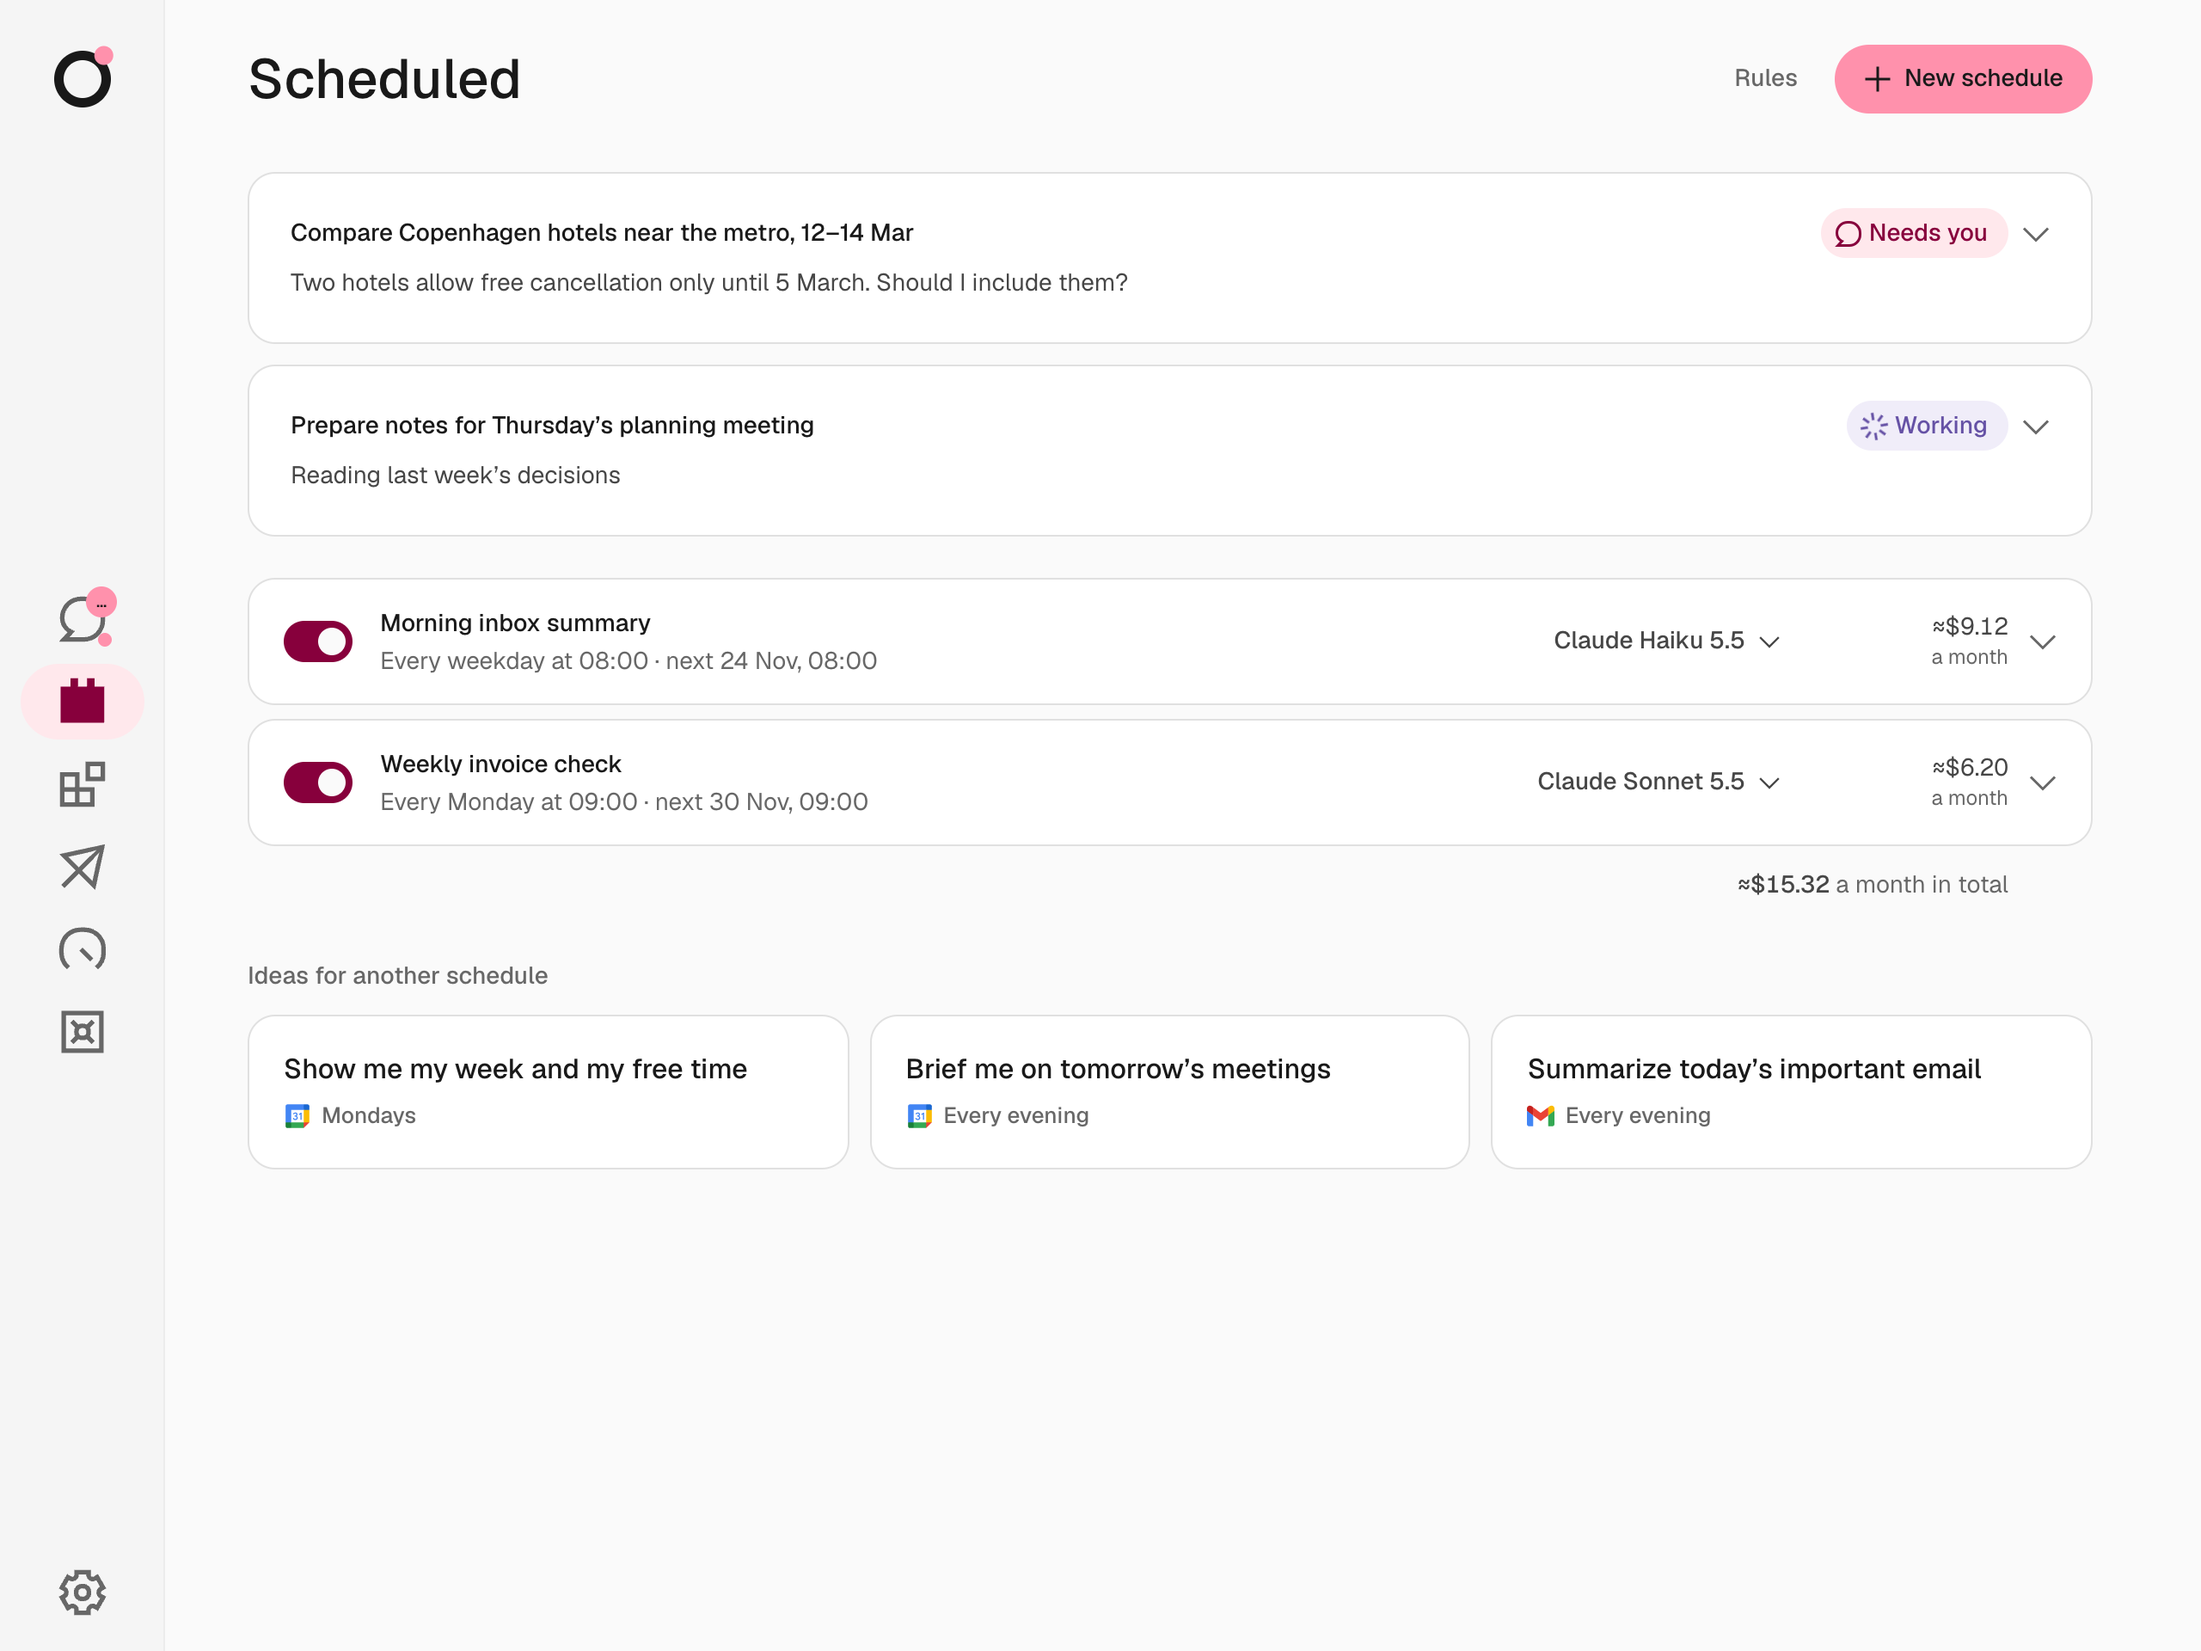
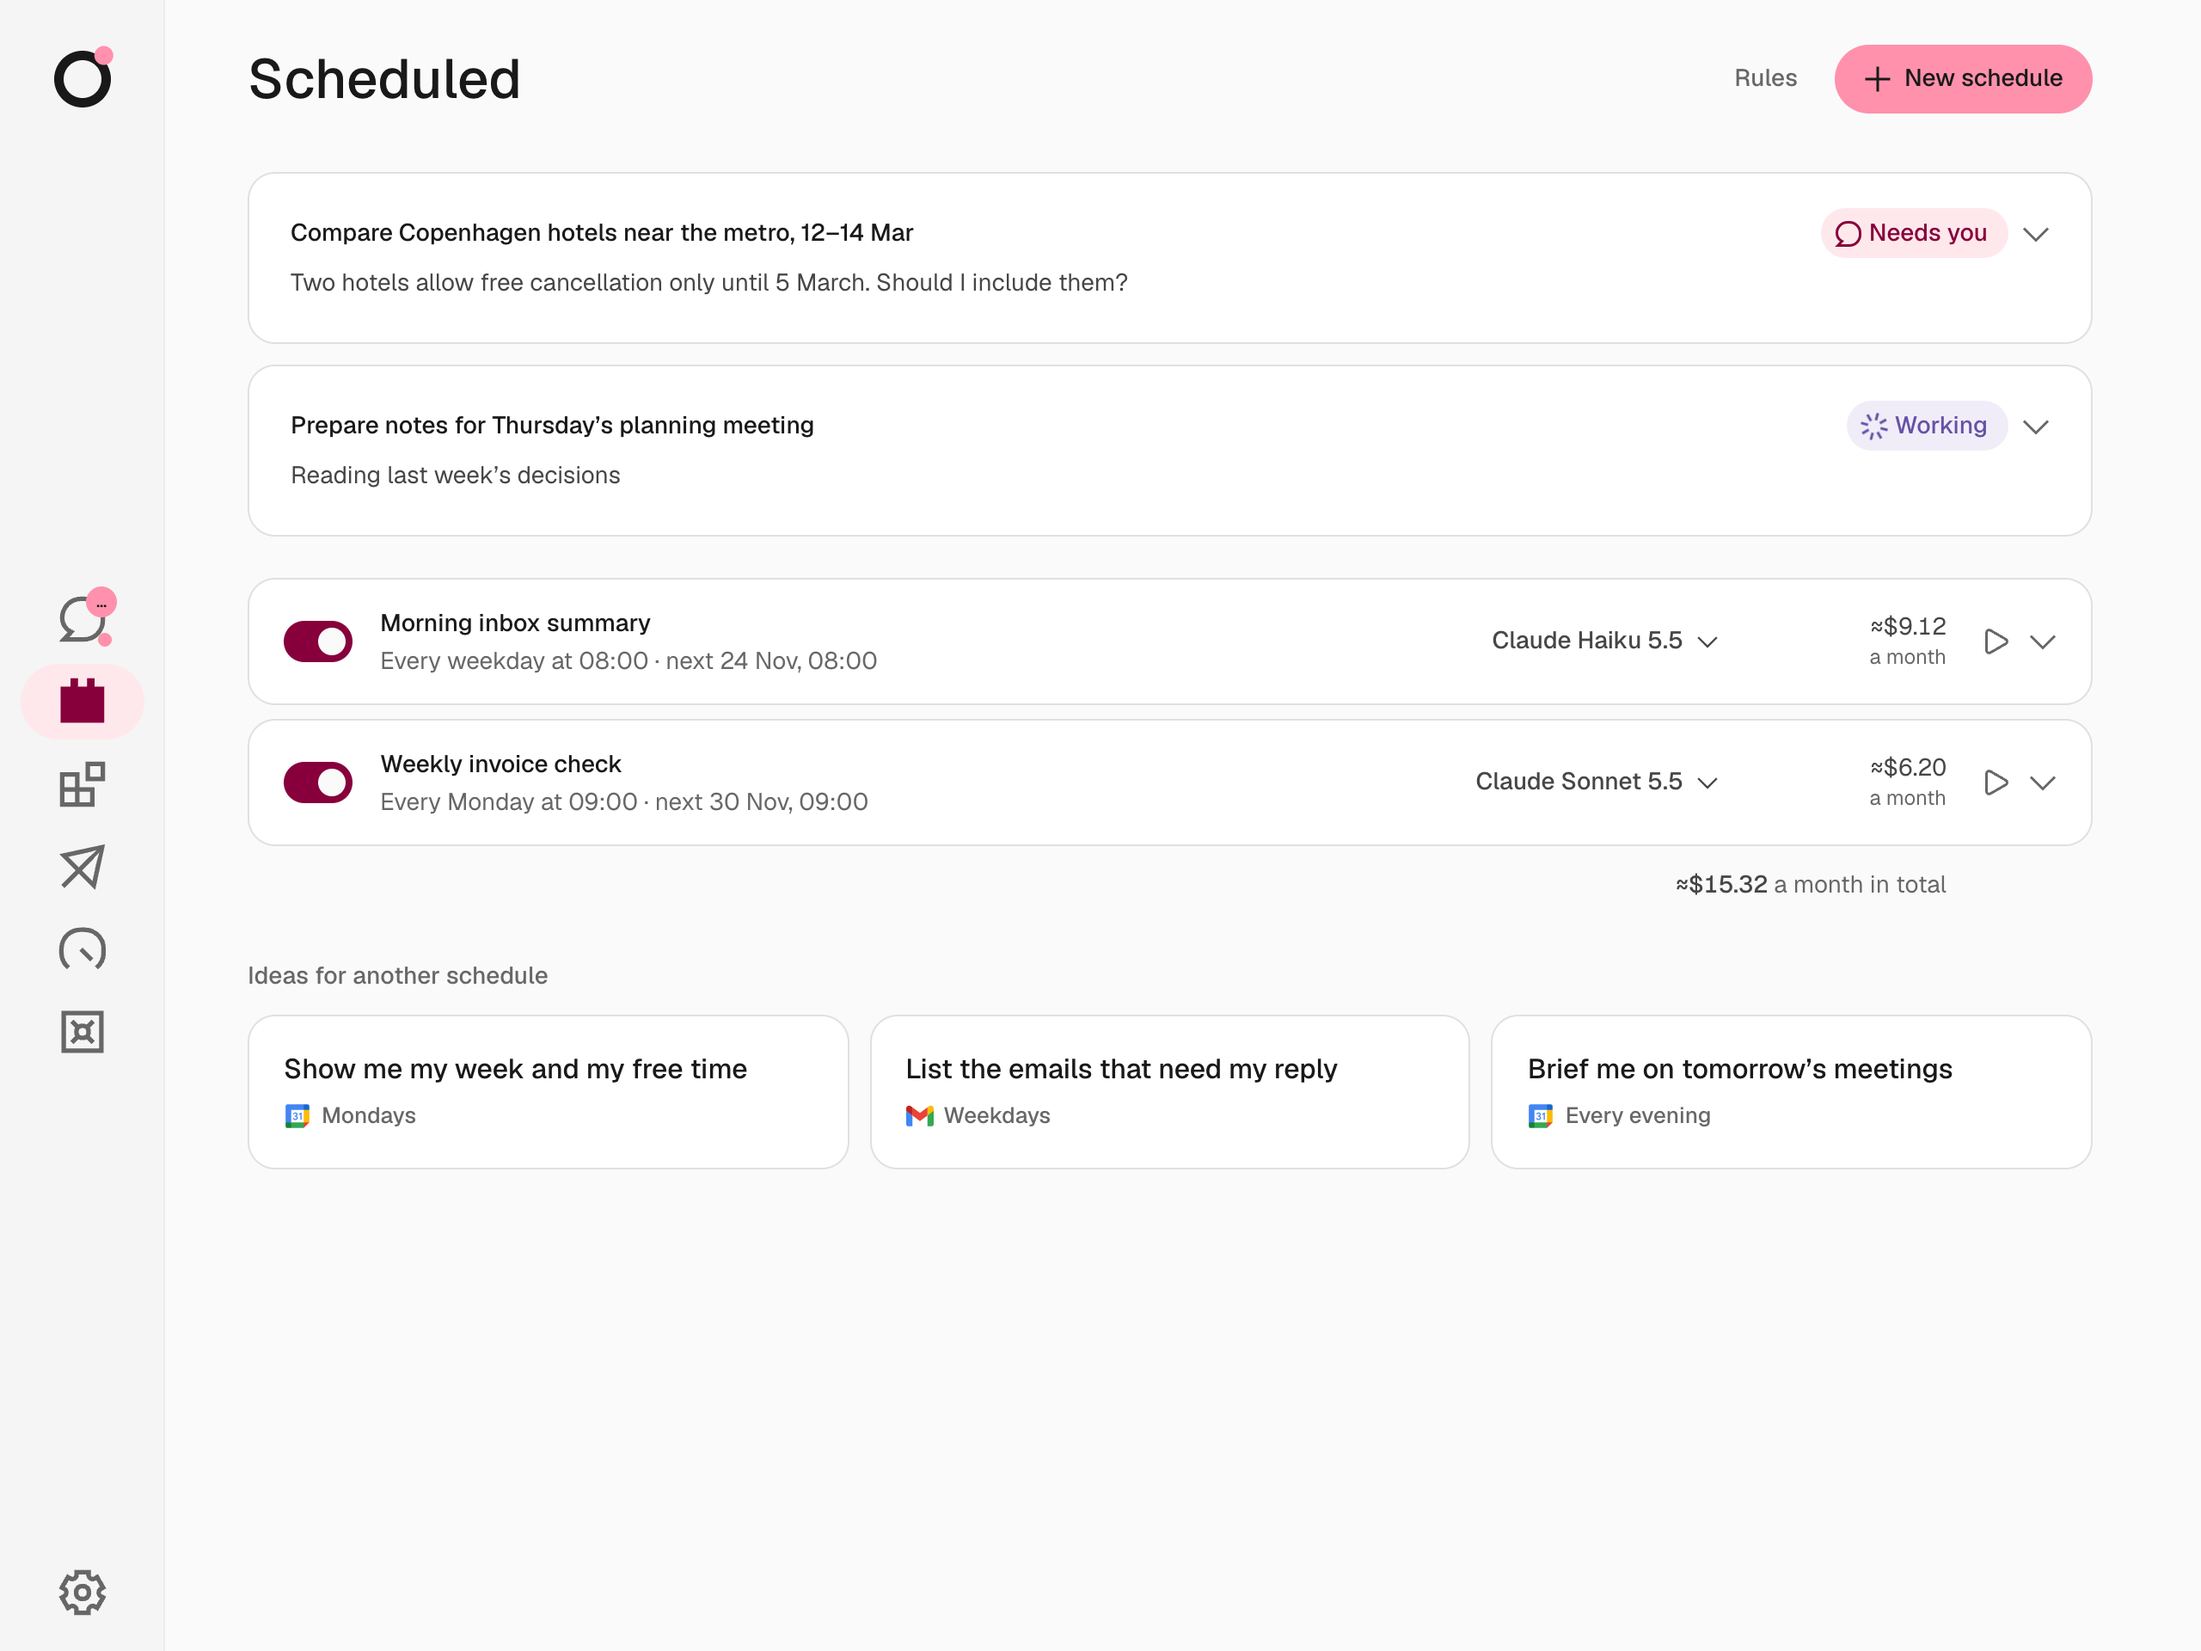
feat(schedules): keep Run now on each row and show the expected cost in details

diff --git a/src/web/pages/schedule.tsx b/src/web/pages/schedule.tsx
@@ -26,7 +26,7 @@ import {
 } from '../components/plan-controls';
 import { Button, Loading, Notice } from '../components/ui';
 import { money } from '../lib/money';
-import { ScheduleModel } from '../components/model-choices';
+import { ScheduleCost, ScheduleModel } from '../components/model-choices';
 
 export function ScheduleRow({
   schedule,
@@ -262,6 +262,33 @@ export function ScheduleRow({
             </>
           )}
         </div>
+        <Button
+          variant="ghost"
+          size="icon"
+          className="schedule-row-run"
+          disabled={
+            starting ||
+            Boolean(activeStatus && !questionMessageId) ||
+            change.busy ||
+            change.uncertain
+          }
+          aria-label={`${runLabel} for ${schedule.title}`}
+          title={runLabel}
+          aria-busy={starting}
+          aria-live="polite"
+          onClick={() => {
+            if (questionMessageId) focusQuestion();
+            else void runNow();
+          }}
+        >
+          {starting ? (
+            <LoaderCircle size={16} className="spin" aria-hidden="true" />
+          ) : activeStatus ? (
+            <StatusIcon status={activeStatus} />
+          ) : (
+            <Play size={16} aria-hidden="true" />
+          )}
+        </Button>
         <ChevronDown size={16} className="schedule-row-chevron" aria-hidden="true" />
       </div>
       {live && (
@@ -280,6 +307,7 @@ export function ScheduleRow({
         <div className="saved-plan-details-content">
           <div className="schedule-row-more">
             <p className="saved-plan-description">{schedule.prompt}</p>
+            <ScheduleCost schedule={schedule} />
             {schedule.baselineObservation?.status === 'verified' && (
               <p className="saved-plan-note">
                 Baseline: {schedule.baselineObservation.value} ·{' '}
@@ -287,32 +315,6 @@ export function ScheduleRow({
               </p>
             )}
             <div className="schedule-row-actions">
-              <Button
-                variant="outline"
-                size="sm"
-                disabled={
-                  starting ||
-                  Boolean(activeStatus && !questionMessageId) ||
-                  change.busy ||
-                  change.uncertain
-                }
-                aria-label={`${runLabel} for ${schedule.title}`}
-                aria-busy={starting}
-                aria-live="polite"
-                onClick={() => {
-                  if (questionMessageId) focusQuestion();
-                  else void runNow();
-                }}
-              >
-                {starting ? (
-                  <LoaderCircle size={16} className="spin" aria-hidden="true" />
-                ) : activeStatus ? (
-                  <StatusIcon status={activeStatus} />
-                ) : (
-                  <Play size={16} aria-hidden="true" />
-                )}
-                {runLabel}
-              </Button>
               {activeRun && (
                 <Button
                   variant="outline"

diff --git a/src/web/pages/tasks.css b/src/web/pages/tasks.css
@@ -66,7 +66,7 @@
 }
 .schedule-row-main {
   display: grid;
-  grid-template-columns: minmax(44px, auto) minmax(160px, 1fr) fit-content(220px) 104px 16px;
+  grid-template-columns: minmax(44px, auto) minmax(160px, 1fr) fit-content(220px) 104px auto 16px;
   align-items: center;
   gap: 12px;
   min-height: 72px;
@@ -151,6 +151,10 @@
   color: var(--muted-foreground);
   font-size: 12px;
 }
+.schedule-row-run {
+  margin-right: -8px;
+  color: var(--muted-foreground);
+}
 .schedule-row-chevron {
   color: var(--muted-foreground);
   transition: transform 220ms var(--ease-reveal);
@@ -183,7 +187,7 @@
   margin-left: auto;
 }
 .schedule-total {
-  padding: 4px 49px 0 0;
+  padding: 4px 85px 0 0;
   color: var(--muted-foreground);
   font-size: var(--text-control);
   text-align: right;
@@ -215,10 +219,10 @@
 }
 @container (max-width: 640px) {
   .schedule-row-main {
-    grid-template-columns: minmax(0, 1fr) auto;
+    grid-template-columns: minmax(0, 1fr) auto auto;
     grid-template-areas:
-      'name switch'
-      'model price';
+      'name name switch'
+      'model price run';
     gap: 6px 8px;
     min-height: 0;
     padding: 14px 12px 12px 16px;
@@ -236,6 +240,11 @@
   .schedule-row-price {
     grid-area: price;
   }
+  .schedule-row-run {
+    grid-area: run;
+    justify-self: end;
+    margin-right: 0;
+  }
   .schedule-row-chevron {
     display: none;
   }
@@ -247,7 +256,7 @@
     padding: 0 16px 16px;
   }
   .schedule-total {
-    padding-right: 13px;
+    padding-right: 53px;
   }
 }
 @media (prefers-reduced-motion: reduce) {

diff --git a/src/web/components/model-choices.tsx b/src/web/components/model-choices.tsx
@@ -301,6 +301,33 @@ export function WorkModel({ task }: { task: Task }) {
   );
 }
 
+export function ScheduleCost({ schedule }: { schedule: Schedule }) {
+  const models = useModels();
+  const usage = usePageData<WorkUsageResponse>(workUsagePath);
+  const data = models.data;
+  const current = data && routeModel(data, 'schedule', { schedule: schedule.model });
+  const name = data && current ? modelOf(data, current.selection)?.name : undefined;
+  const spent = usage.data?.schedules[schedule.id];
+  const recent = spent ? spent.agentUsd + spent.otherUsd : 0;
+  if (schedule.kind !== 'recurring' && recent <= 0) return null;
+  return (
+    <div className="work-model">
+      <span className="work-model-label">Expected cost</span>
+      <span className="work-model-value">
+        {schedule.monthlyUsd !== null ? (
+          <>
+            <strong>≈{money(schedule.monthlyUsd)} a month</strong>
+            {name && ` on ${name}`}
+          </>
+        ) : (
+          <strong>No estimate yet</strong>
+        )}
+        {recent > 0 && ` · ${money(recent)} in the last 30 days`}
+      </span>
+    </div>
+  );
+}
+
 export function ScheduleModel({ schedule }: { schedule: Schedule }) {
   const models = useModels();
   const usage = usePageData<WorkUsageResponse>(workUsagePath);

diff --git a/docs/src/content/docs/use/schedules.md b/docs/src/content/docs/use/schedules.md
@@ -28,8 +28,8 @@ When you have fewer than three active schedules, **Scheduled** also shows three 
 
 - Use the switch to pause or resume it.
 - Select its model to give this schedule a different one. See [Choose a model for a schedule](#choose-a-model-for-a-schedule).
-- Select its name to read the instruction, any saved baseline, and that schedule's runs. When you have only one schedule, or only one active schedule, it's already open when you open the page.
-- Select **Run now** to start one run and follow it in its runs.
+- Select its name to read the instruction, its expected cost, any saved baseline, and that schedule's runs. When you have only one schedule, or only one active schedule, it's already open when you open the page.
+- Select **Run now**, the play button on its row, to start one run. The row opens so you can follow it.
 - Select **Edit schedule** to change its name, instructions or timing.
 - Select **Ask Nod** to change it in your own words.
 - Select **Delete schedule**. Future runs stop, and past activity stays in [Usage](/use/spending/).
@@ -40,7 +40,7 @@ In chat, "stop the morning summary" asks Nod to pause the schedule. If Nod asks 
 
 ## Run a schedule now
 
-Open **Scheduled**, select a schedule's name, then select **Run now**. Its runs stay open so you can follow the new one. The new result opens when it is available. A run that failed in chat offers **Run now** too. If you changed the schedule after that run failed, Nod refuses and asks you to review it first.
+Open **Scheduled** and select **Run now**, the play button on a schedule's row. The row opens so you can follow the run. The new result opens when it is available. A run that failed in chat offers **Run now** too. If you changed the schedule after that run failed, Nod refuses and asks you to review it first.
 
 The extra run uses the saved instruction and delivery channel and does its work now, even when the instruction names another day or time. The usual approval checks still apply, and the time named in the instruction never makes them ask. It does not change the next scheduled time or resume a paused schedule. You can also run a completed one-time schedule again.
 
@@ -103,7 +103,7 @@ Select **Edit schedule** to review its name, instructions and timing together. T
 
 ### Choose a model for a schedule
 
-A schedule uses the model for schedules from **Settings > Models**. To give one schedule its own model, select the model on its row in **Scheduled**. When the schedule has priced usage in the last 30 days, the list shows what that work would have cost on each model; otherwise it shows each model's token prices. Choose **Same as schedules** to follow **Settings > Models** again. The change applies from the next turn, so a run that waits for your answer continues on the new model. When a recurring schedule shows a projected monthly cost, it prices the schedule's recent runs on that model. See [Models for each kind of work](/connect/models/#models-for-each-kind-of-work).
+A schedule uses the model for schedules from **Settings > Models**. To give one schedule its own model, select the model on its row in **Scheduled**. When the schedule has priced usage in the last 30 days, the list shows what that work would have cost on each model; otherwise it shows each model's token prices. Choose **Same as schedules** to follow **Settings > Models** again. The schedule's details show its expected cost a month on its model and what it cost in the last 30 days. The change applies from the next turn, so a run that waits for your answer continues on the new model. When a recurring schedule shows a projected monthly cost, it prices the schedule's recent runs on that model. See [Models for each kind of work](/connect/models/#models-for-each-kind-of-work).
 
 ## Quiet hours
 
